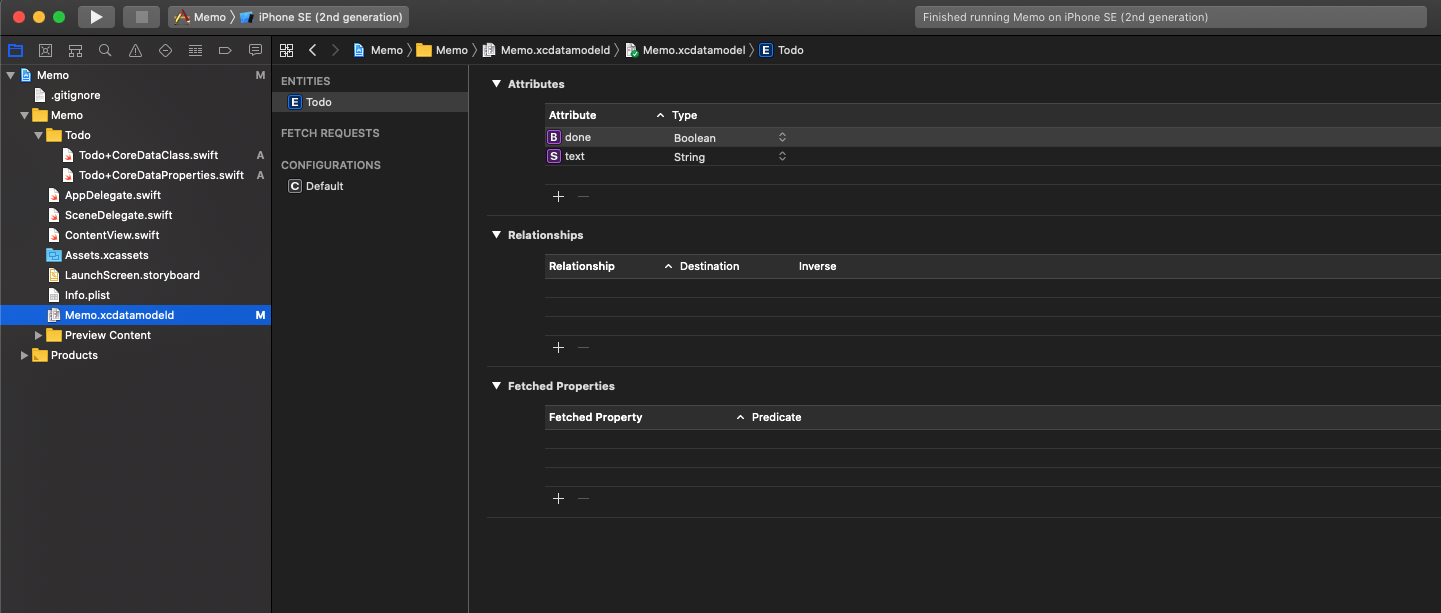
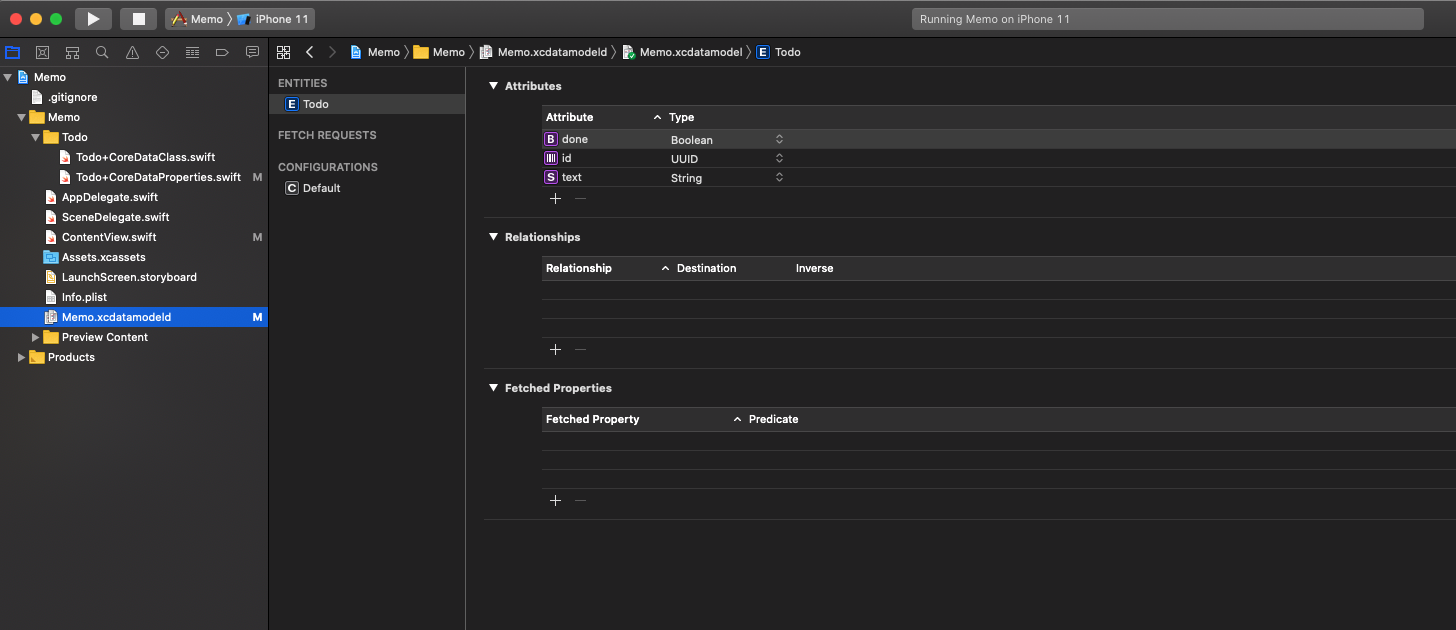
core data article

diff --git a/content/articles/core-data.md b/content/articles/core-data.md
@@ -1,9 +1,11 @@
 +++
-date = "2020-04-23T12:00:00+03:00"
-draft = true
+date = "2020-04-26T12:00:00+03:00"
+draft = false
 title = "Core Data"
-tags = ["ios", "swift"]
+tags = ["ios", "swift", "swiftui"]
 +++
+
+![](/img/core-data/main.png)
 
 Core Data - фреймворк для работы с базой дынных в приложениях. С его помощью можно хранить и управлять данными. Я не часто его использовал и у меня никак не было времени, чтобы разобраться с ним. Но на этих выходных время пришло.
 
@@ -11,22 +13,271 @@ Core Data - фреймворк для работы с базой дынных в
 
 <!--more-->
 
-Начнем с создания нового проекта. Желательно отметить галочку как указано на картинке. В этом случае в файле `AppDelegate.swift` сгенерируется дополнительный код и добавится специальный файл `Memo.xcdatamodeld`. Memo - это название моего проекта.
+### Новый проект
+
+Начну с создания нового проекта. Желательно отметить галочку как указано на картинке. В этом случае в файлах _AppDelegate.swift_ и _SceneDelegate.swift`_ сгенерируется дополнительный код и добавится специальный файл _Memo.xcdatamodeld_. Memo - это название моего проекта.
 
 ![](/img/core-data/create.png)
 
-Первым делом откроем файл `Memo.xcdatamodeld` и добавим новую сущность `Todo`
+В файле _SceneDelegate.swift_ в функции `scene` появилась новая строчка
+
+```
+// Get the managed object context from the shared persistent container.
+let context = (UIApplication.shared.delegate as! AppDelegate).persistentContainer.viewContext
+```
+
+Эта функция возвращает контекст управляемого объекта(managed object context). Контекст управляемого объекта похож на блокнот, который хранится в оперативной памяти. Это место, где объекты создаются, выбираются, обновляются, удаляются и сохраняются обратно в постоянное хранилище на устройстве.
+
+Ниже еше одна интересная строчка кода:
+
+```
+// Add `@Environment(\.managedObjectContext)` in the views that will need the context.
+let contentView = ContentView().environment(\.managedObjectContext, context)
+```
+
+Тут создается `ContentView` который потом передается в конструктор контроллера. Но что это за `environment`?
+
+Перед тем, как запустится, наше корневое представление `ContentView` - в окружении установится новый параметр `managedObjectContext` с контекстом, который мы только что создали. Окружение - это место где хранятся различные системны параметры, например локаль календаря, цветовая схема и т.д. Все эти параметры хранятся по разным ключам. И теперь наш контекст тоже хранится там по ключу `managedObjectContext`.
+
+Теперь каждое представление может использовать "блокнот" для работы с объектами.
+
+Определимся с структурой данных которыми буду манипулировать в приложении. Для этого в файл _Memo.xcdatamodeld_ и добавлю новую сущность `Todo`. Для этого надо кликнуть на большой жирный плюс _Add Entity_
+
+![](/img/core-data/generate5.png)
+
+Теперь к новой сущности добавляем нужные аттрибуты. Для простого туду достаточно добавить `text`, `done` и поля `id` м типом UUID(это поле будет использоваться как уникальный идентификатор объекта).
 
 ![](/img/core-data/generate0.png)
 
-Генерировать код в ручную не обязательно. Можно оставить значение `Class Definition` в поле Codegen и успокоится. Но я выберу `Manual/None` - это позволит сгенерировать файлы в папке проекта и посмотреть что там будет.
+Генерировать код в ручную не обязательно. Можно оставить значение _Class Definition_ в поле _Codegen_ и успокоится. Но я выберу _Manual/None_ - это позволит сгенерировать файлы в папке проекта и посмотреть что там будет.
 
 ![](/img/core-data/generate4.png)
 
-Теперь генерируем файлы
+Теперь генерирую файлы
 
 ![](/img/core-data/generate1.png)
 
 ![](/img/core-data/generate2.png)
 
+Получается пара новый файлов в проекте: `Memo+CoreDataClass.swift` и `Memo+CoreDataProperties.swift`. В `Memo+CoreDataClass.swift` описан сам объект. А в `Memo+CoreDataClass.swift` описываются его свойства.
+
+Замечу, что еще один плюс генерации классов в ручную - возможность вносить разные дополнения, которые недоступны при работе только через интерфейс для `.xcdatamodeld`. Например, можно сделать нужные поля как `enum`. Или добавить реализацию нужного интерфейса.
+
 ![](/img/core-data/generate3.png)
+
+### Интерфейс
+
+Нужно убедиться, что блок предпросмотра имеет доступ к параметру окружения `managedObjectContext` как и все приложение.
+
+```
+struct ContentView_Previews: PreviewProvider {
+    static var previews: some View {
+        
+        let context = (UIApplication.shared.delegate as! AppDelegate).persistentContainer.viewContext
+        
+        return ContentView().environment(\.managedObjectContext, context)
+    }
+}
+```
+
+Теперь к интерфейсу самого приложения. Делать его буду стильно, модно и молодежно с помощью SwidtUI. Нужен заголовок, список с задачами, текстовое поле и кнопка для добавления новых задач. В `ContentView` добавил такой код:
+
+```
+import SwiftUI
+import CoreData
+
+struct ContentView: View {
+    @State var todo = ""
+    
+    var body: some View {
+        NavigationView {
+            VStack {
+                // форма для создания нового таска
+                HStack {
+                    TextField("Task",text: $todo).padding(.all, 20)
+                    Button(action: {
+                       
+                    }){
+                        Text("Add Task")
+                    }.padding(.all, 20)
+                }
+                // список всех задач
+                List {
+                    HStack {
+                        Text("Hello, World!")
+                        Spacer() в
+                        Button(action: {
+                           
+                        }){
+                            Text("Complete")
+                            .foregroundColor(.blue)
+                        }
+                    }
+                    HStack {
+                        Text("Hello, World!")
+                        Spacer()
+                        Button(action: {
+                           
+                        }){
+                            Text("Complete")
+                            .foregroundColor(.blue)
+                        }
+                    }
+                }
+            }.navigationBarTitle(Text("Tasks")
+                .font(.largeTitle))
+        }
+    }
+}
+
+struct ContentView_Previews: PreviewProvider {
+    static var previews: some View {
+        ContentView()
+    }
+}
+```
+
+Теперь подружу интерфейс с Core Data
+
+### Сохраняем данные
+
+Пока у меня ничего не сохранятся и не выводится. Чтобы сохранить новую задачу, нужно иметь доступ к контексту управляемого объекта. И тут становится понятным, зачем мы добавляли контекст в окружение. К нему можно получить доступ, используя свойство `@Environment` внутри нашего `ContentView`.
+
+```
+@Environment(\.managedObjectContext) var managedObjectContext
+
+@State var todo = ""
+```
+
+И теперь можем написать код, который создает новый объект `Task`. Этот код нужно поместить в экшене кнопки `"Add Task"`
+
+```
+Button(action: {
+                       
+    guard self.todo != "" else {return}
+    
+    let todo = Todo(context: self.managedObjectContext)
+    todo.text = self.todo
+    todo.done = false
+    todo.id = UUID()
+    
+}){
+    Text("Add Task")
+}.padding(.all, 20)
+```
+
+И теперь с помощью managedObjectContext сохраняем данные на устройстве.
+
+### Читаем данные
+
+Чтобы прочитать сохраненные данные из хранилища, воспользуюсь свойством `@FetchRequest`, которое добавлю в `ContentView`. С помощью этого свойства очень легко манипулировать сохраненными данными.
+
+```
+@FetchRequest(entity: Todo.entity(), sortDescriptors: []) var todos: FetchedResults<Todo>
+```
+
+Это, конечно, круто что можно одной строчкой объявить переменную и сразу указать что она заполнится данными их хранилища. Но как пом не, это не очень очевидно и читать такие объявления в чужом коде - самая настоящая боль. И это еще не используется параметр `predicate` в свойстве `@FetchRequest` который может сделать все объявление нечитаемым.
+
+Теперь отредактирую отображение списка задач, добавлю цикл по `todos` с помощью `ForEach`
+
+```
+ForEach(todos) { todo in
+    HStack {
+        Text(todo.text!)
+        Spacer()
+        Button(action: {
+            
+        }){
+            Text("Complete")
+            .foregroundColor(.blue)
+        }
+    }
+}
+```
+
+Этот код у меня не захотел сразу работать
+
+![](/img/core-data/code0.png)
+
+Чтобы избавиться от этих ошибок - нужно добавить интерфейс `Identifiable` для класса `Todo` в файле `Todo+CoreDataProperties.swift`
+
+```
+extension Todo: Identifiable {
+    // ...
+}
+```
+
+У нас уже есть аттрибут `id`, поэтому после добавления интерфейса все заработает как нужно.
+
+Запускаем эмулятор и добавляем новые задачи.
+
+![](/img/core-data/code1.png)
+
+### Редактирование и удаление
+
+Отлично! Можно добавлять новые задачи. Осталось добавить возможность помечать их как выполненными и удалять. Для этого изменю блок с кнопкой - добавлю условие и сделаю две кнопки.
+
+```
+HStack {
+    Text(todo.text!)
+    Spacer()
+    if todo.done {
+        Button(action: {
+            
+        }){
+            Text("Remove")
+            .foregroundColor(.blue)
+        }
+    } else {
+        Button(action: {
+            
+        }){
+            Text("Complete")
+            .foregroundColor(.blue)
+        }
+    }
+}
+```
+
+Теперь в несколько строчек реализуем выполнение задачи
+
+```
+Button(action: {
+    todo.done = true
+    
+    do {
+        try self.managedObjectContext.save()
+    } catch {
+        print(error.localizedDescription)
+    }
+    
+}){
+    Text("Complete")
+    .foregroundColor(.blue)
+}
+```
+
+И удаление
+
+```
+Button(action: {
+    self.managedObjectContext.delete(todo)
+}){
+    Text("Remove")
+    .foregroundColor(.blue)
+}
+```
+
+### Заключение
+
+В приложениях на SwiftUI стало еще проще использовать Core Data. Всю основную магию за вас делает свойство `@FetchRequest`. Но если вы новичек в Swift и iOS, то вам стоит подробнее изучить как работает выборка объектов из хранилища и что такое предикаты.
+
+Код из статьи [доступен на GitHub](https://github.com/horechek/memo).
+
+Ссылки по теме:
+
+- [Core Data в деталях](https://habr.com/ru/post/436510/)
+- [Core Data: Часть 1](https://swiftbook.ru/post/tutorials/core-data-chast-1/)
+- [Core Data: Часть 2. Lightweight Миграции](https://swiftbook.ru/post/tutorials/core-data-chast-2-lightweight-migracii/)
+- [Introduction to using Core Data with SwiftUI](https://www.hackingwithswift.com/quick-start/swiftui/introduction-to-using-core-data-with-swiftui)
+- [How to make a task list using SwiftUI and Core Data](https://dev.to/maeganwilson_/how-to-make-a-task-list-using-swiftui-and-core-data-513a)
